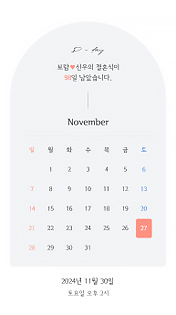
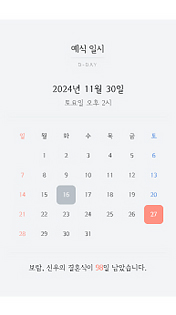
feat: 캘린더 순서 변경_241212

diff --git a/src/components/invitationSection/Calendar.js b/src/components/invitationSection/Calendar.js
@@ -7,7 +7,6 @@ import BasicCalendarTheme2 from "./BasicCalendarTheme2.js";
 import BasicCalendarTheme3 from "./BasicCalendarTheme3.js";
 import BasicCalendarTheme4 from "./BasicCalendarTheme4.js";
 import HeadLine from "../layout/HeadLine.js";
-import MobileSettingButtonWrapper from "../layout/MobileSettingButtonWrapper.js";
 /* CSS Module */
 import styles from "../../css/module/invitationSection/Calendar.module.scss";
 /* Image */
@@ -83,33 +82,25 @@ const Calendar = () => {
     switch(id) {
       case "calendarType1":
         return (
-          <div className={styles.date__wrap_add}>
-            <div className={styles.date__wrap} style={{ backgroundColor: "var(--theme-select-color)" }}>
-              <img src={calendarTheme1} alt="" />
-              <div className={styles.date__content}>
-                {selectOptionList.dateDdayOption ?
-                  <div className={styles.d_day}>
-                    <p>
-                      {basicInfoList.groomInfo.firstname ? basicInfoList.groomInfo.firstname : "보람"}
-                      , {basicInfoList.brideInfo.firstname ? basicInfoList.brideInfo.firstname : "신우"}
-                      의 결혼식이<br />
-                      <span>{dayCalculator(basicInfoList.dateInfo.date)}</span>일 남았습니다.
-                    </p>
-                    <p className={styles.divide}></p>
-                  </div>
-                  : null
-                }
-                <p className={styles.month}>
-                  {monthRenderer(basicInfoList.dateInfo.date)}
-                </p>
-                <div className={styles.calendar}>
-                  <BasicCalendarTheme1 />
-                </div>
+          <div className={styles.date__wrap} style={{ backgroundColor: "var(--theme-select-color)" }}>
+            <HeadLine title="예식 일시" content="D-day"></HeadLine>
+            <div className={styles.date__content}>
+              <div className={styles.date}>
+                <p>{handleDateChange(basicInfoList.dateInfo.date)}</p>
+                <p>{handleDaysChange(basicInfoList.dateInfo.date) + "요일"} {basicInfoList.timeInfo.hour > 12 ? "오후" : "오전"} {basicInfoList.timeInfo.hour > 12 ? basicInfoList.timeInfo.hour - 12 : basicInfoList.timeInfo.hour}시 {basicInfoList.timeInfo.min !== "0" ? basicInfoList.timeInfo.min + "분" : ""}</p>
               </div>
-            </div>
-            <div className={styles.date}>
-              <p>{handleDateChange(basicInfoList.dateInfo.date)}</p>
-              <p>{handleDaysChange(basicInfoList.dateInfo.date) + "요일"} {basicInfoList.timeInfo.hour > 12 ? "오후" : "오전"} {basicInfoList.timeInfo.hour > 12 ? basicInfoList.timeInfo.hour - 12 : basicInfoList.timeInfo.hour}시 {basicInfoList.timeInfo.min !== "0" ? basicInfoList.timeInfo.min + "분" : ""}</p>
+              <div className={styles.calendar}>
+                <BasicCalendarTheme4 />
+              </div>
+              {selectOptionList.dateDdayOption ?
+                <div className={styles.d_day}>
+                  <p>
+                    {basicInfoList.groomInfo.firstname ? basicInfoList.groomInfo.firstname : "보람"}
+                    {/* <span>♥</span> */}, {basicInfoList.brideInfo.firstname ? basicInfoList.brideInfo.firstname : "신우"}
+                    의 결혼식이 <span>{dayCalculator(basicInfoList.dateInfo.date)}</span>일 남았습니다.</p>
+                </div>
+                : null
+              }
             </div>
           </div>
         );
@@ -140,6 +131,38 @@ const Calendar = () => {
         );
       case "calendarType3":
         return (
+          <div className={styles.date__wrap_add}>
+            <div className={styles.date__wrap} style={{ backgroundColor: "var(--theme-select-color)" }}>
+              <img src={calendarTheme1} alt="" />
+              <div className={styles.date__content}>
+                {selectOptionList.dateDdayOption ?
+                  <div className={styles.d_day}>
+                    <p>
+                      {basicInfoList.groomInfo.firstname ? basicInfoList.groomInfo.firstname : "보람"}
+                      , {basicInfoList.brideInfo.firstname ? basicInfoList.brideInfo.firstname : "신우"}
+                      의 결혼식이<br />
+                      <span>{dayCalculator(basicInfoList.dateInfo.date)}</span>일 남았습니다.
+                    </p>
+                    <p className={styles.divide}></p>
+                  </div>
+                  : null
+                }
+                <p className={styles.month}>
+                  {monthRenderer(basicInfoList.dateInfo.date)}
+                </p>
+                <div className={styles.calendar}>
+                  <BasicCalendarTheme1 />
+                </div>
+              </div>
+            </div>
+            <div className={styles.date}>
+              <p>{handleDateChange(basicInfoList.dateInfo.date)}</p>
+              <p>{handleDaysChange(basicInfoList.dateInfo.date) + "요일"} {basicInfoList.timeInfo.hour > 12 ? "오후" : "오전"} {basicInfoList.timeInfo.hour > 12 ? basicInfoList.timeInfo.hour - 12 : basicInfoList.timeInfo.hour}시 {basicInfoList.timeInfo.min !== "0" ? basicInfoList.timeInfo.min + "분" : ""}</p>
+            </div>
+          </div>
+        );
+      case "calendarType4":
+        return (
           <div className={styles.date__wrap}>
             <HeadLine title="예식 일시" content="D-day"></HeadLine>
             <div className={styles.date__content}>
@@ -156,30 +179,6 @@ const Calendar = () => {
                     {basicInfoList.groomInfo.firstname ? basicInfoList.groomInfo.firstname : "보람"}
                     {/* <span>♥</span> */}, {basicInfoList.brideInfo.firstname ? basicInfoList.brideInfo.firstname : "신우"}
                     의 결혼식이<br /><span>{dayCalculator(basicInfoList.dateInfo.date)}</span>일 남았습니다.</p>
-                </div>
-                : null
-              }
-            </div>
-          </div>
-        );
-      case "calendarType4":
-        return (
-          <div className={styles.date__wrap} style={{ backgroundColor: "var(--theme-select-color)" }}>
-            <HeadLine title="예식 일시" content="D-day"></HeadLine>
-            <div className={styles.date__content}>
-              <div className={styles.date}>
-                <p>{handleDateChange(basicInfoList.dateInfo.date)}</p>
-                <p>{handleDaysChange(basicInfoList.dateInfo.date) + "요일"} {basicInfoList.timeInfo.hour > 12 ? "오후" : "오전"} {basicInfoList.timeInfo.hour > 12 ? basicInfoList.timeInfo.hour - 12 : basicInfoList.timeInfo.hour}시 {basicInfoList.timeInfo.min !== "0" ? basicInfoList.timeInfo.min + "분" : ""}</p>
-              </div>
-              <div className={styles.calendar}>
-                <BasicCalendarTheme4 />
-              </div>
-              {selectOptionList.dateDdayOption ?
-                <div className={styles.d_day}>
-                  <p>
-                    {basicInfoList.groomInfo.firstname ? basicInfoList.groomInfo.firstname : "보람"}
-                    {/* <span>♥</span> */}, {basicInfoList.brideInfo.firstname ? basicInfoList.brideInfo.firstname : "신우"}
-                    의 결혼식이 <span>{dayCalculator(basicInfoList.dateInfo.date)}</span>일 남았습니다.</p>
                 </div>
                 : null
               }

diff --git a/src/css/module/invitationSection/Calendar.module.scss b/src/css/module/invitationSection/Calendar.module.scss
@@ -52,7 +52,55 @@
     }
   }
 }
-.calendarType1 {
+.calendarType2 {
+  .calendar {
+    margin: 20px 20px;
+  }
+  .date__wrap {
+    width: calc(100% - 48px);
+    margin-left: 24px;
+    margin-right: 24px;
+    border-bottom: none;
+    border-radius: 16px;
+    > img {
+      margin: 0 auto 8px;
+      width: 62px;
+      height: 47px;
+    }
+  }
+  .date__content {
+    .calendar {
+      margin: 20px;
+      margin-top: 0;
+    }
+  }
+  .date {
+    * {
+      line-height: 1.5em;
+    }
+    p {
+      &:first-of-type {
+        font-size: $font-size--default;
+        letter-spacing: 0;
+      }
+      &:last-of-type {
+        font-size: $font-size--sm;
+        color: $text-color--temp;
+      }
+    }
+  }
+  .d_day {
+    margin-bottom: 20px;
+    p {
+      font-size: $font-size--ssm;
+      span {
+        font-size: $font-size--ssm !important;
+      }
+    }
+    
+  }
+}
+.calendarType3 {
   .date__wrap_add {
     width: 100%;
     padding-bottom: 30px;
@@ -118,55 +166,7 @@
     }
   }
 }
-.calendarType2 {
-  .calendar {
-    margin: 20px 20px;
-  }
-  .date__wrap {
-    width: calc(100% - 48px);
-    margin-left: 24px;
-    margin-right: 24px;
-    border-bottom: none;
-    border-radius: 16px;
-    > img {
-      margin: 0 auto 8px;
-      width: 62px;
-      height: 47px;
-    }
-  }
-  .date__content {
-    .calendar {
-      margin: 20px;
-      margin-top: 0;
-    }
-  }
-  .date {
-    * {
-      line-height: 1.5em;
-    }
-    p {
-      &:first-of-type {
-        font-size: $font-size--default;
-        letter-spacing: 0;
-      }
-      &:last-of-type {
-        font-size: $font-size--sm;
-        color: $text-color--temp;
-      }
-    }
-  }
-  .d_day {
-    margin-bottom: 20px;
-    p {
-      font-size: $font-size--ssm;
-      span {
-        font-size: $font-size--ssm !important;
-      }
-    }
-    
-  }
-}
-.calendarType3 {
+.calendarType4 {
   padding-top: 0;
   padding-bottom: 0;
   .date__wrap {
@@ -233,7 +233,4 @@
       }
     }
   }
-}
-.calendarType4 {
-  
 }
